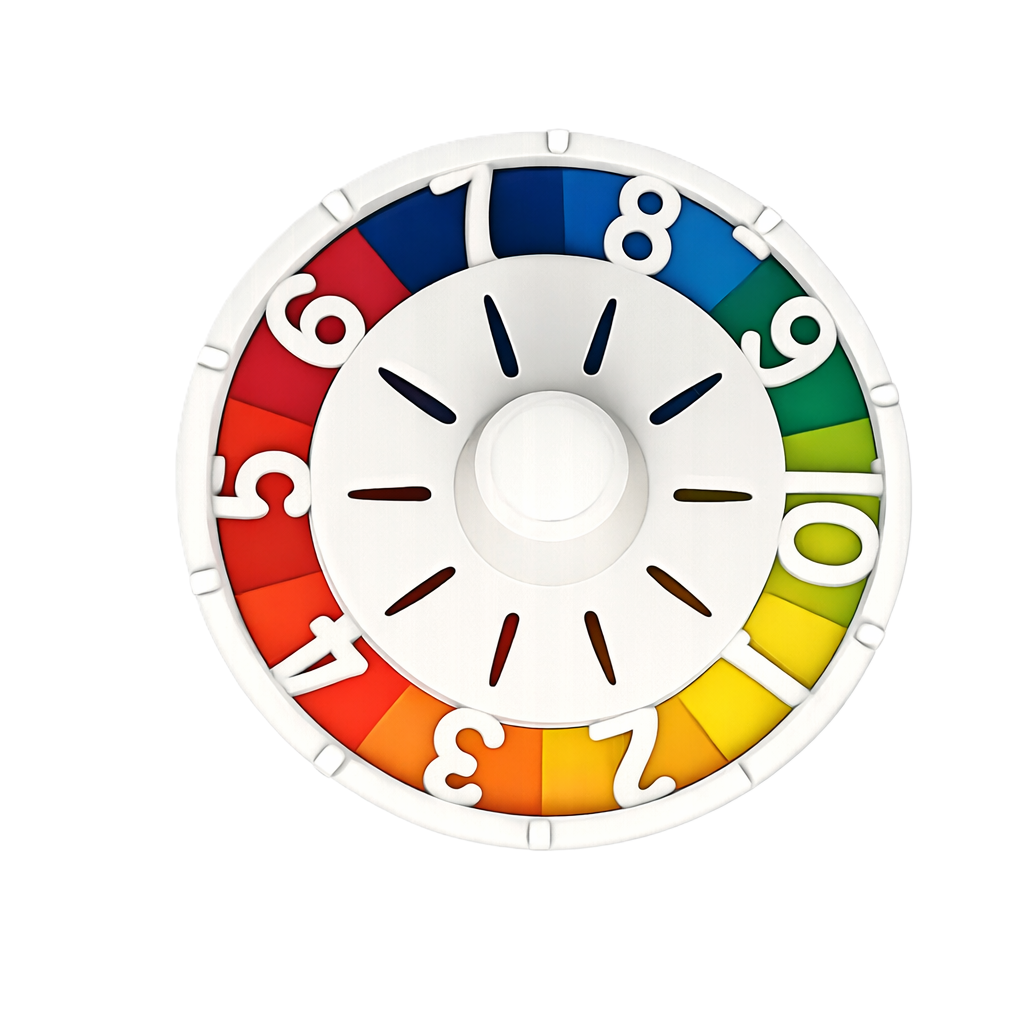
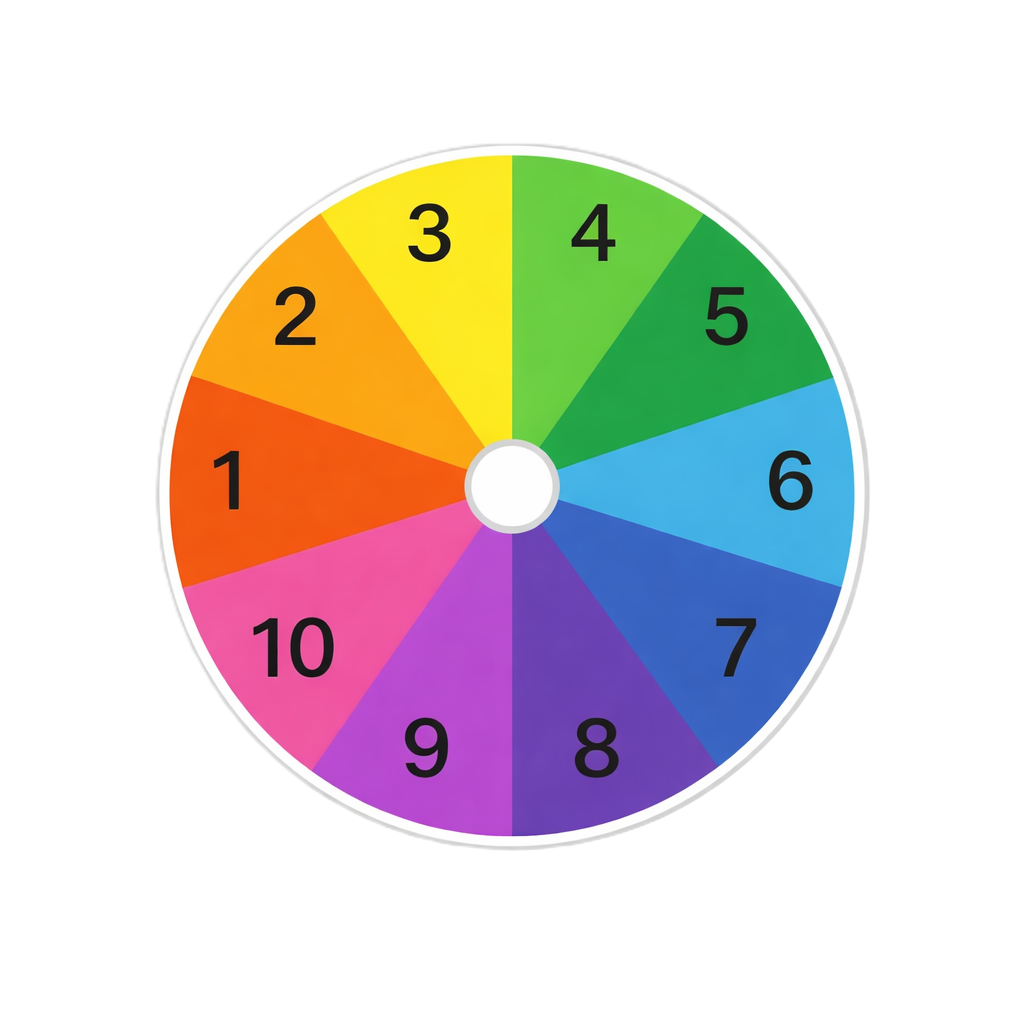
Commit all

diff --git a/src/main/java/org/gameoflife/Board.java b/src/main/java/org/gameoflife/Board.java
@@ -67,58 +67,26 @@ public class Board {
             label.setLayoutX(space.getX() - 7);
             label.setLayoutY(space.getY() + 5);
             boardPane.getChildren().add(label);
-
-//            spinnerContainer = new StackPane();
-//
-//            ImageView spinnerBase = new ImageView(new Image(getClass().getResource("/org/gameoflife/spinner.png").toExternalForm()));
-//            spinnerBase.setFitWidth(270);
-//            spinnerBase.setFitHeight(270);
-//            spinnerBase.setLayoutX(230);
-//            spinnerBase.setLayoutY(200);
-//
-//            spinnerContainer.setLayoutX(230);
-//            spinnerContainer.setLayoutY(200);
-//
-//
-//            spinnerContainer.setPrefSize(270, 270); // same as spinnerBase
-//            spinnerContainer.getChildren().add(spinnerBase);
-//
-//            boardPane.getChildren().add(spinnerBase);
-//
-//            ImageView spinnerArrow = new ImageView(new Image(getClass().getResource("/org/gameoflife/arrow.png").toExternalForm()));
-//            spinnerArrow.setFitWidth(80);
-//            spinnerArrow.setFitHeight(80);
-//            spinnerArrow.setLayoutX(220);
-//            spinnerArrow.setLayoutY(310);
-//
-//            boardPane.getChildren().add(spinnerArrow);
         }
 
-        // 🔥 CREATE SPINNER ONLY ONCE
-
-        spinnerContainer = new StackPane();
-
+        // Add spinner base (static)
         ImageView spinnerBase = new ImageView(
                 new Image(getClass().getResource("/org/gameoflife/spinner.png").toExternalForm())
         );
 
-        spinnerBase.setFitWidth(270);
-        spinnerBase.setFitHeight(270);
+        spinnerBase.setFitWidth(300);
+        spinnerBase.setFitHeight(300);
 
-// Container size
-        spinnerContainer.setPrefSize(270, 270);
+        spinnerBase.setLayoutX(220);
+        spinnerBase.setLayoutY(180);
 
-// Center spinner inside container
-        spinnerContainer.getChildren().add(spinnerBase);
+        // Add to board
+        boardPane.getChildren().add(spinnerBase);
 
-// Position container
-        spinnerContainer.setLayoutX(240);
-        spinnerContainer.setLayoutY(200);
+        // 🔥 CREATE SPINNER ONLY ONCE
+        spinnerContainer = new StackPane();
 
-// Add to board
-        boardPane.getChildren().add(spinnerContainer);
-
-// Arrow (static)
+        // Arrow (dynamic, rotates)
         ImageView spinnerArrow = new ImageView(
                 new Image(getClass().getResource("/org/gameoflife/arrow.png").toExternalForm())
         );
@@ -126,11 +94,13 @@ public class Board {
         spinnerArrow.setFitWidth(80);
         spinnerArrow.setFitHeight(80);
 
-// Position arrow
-        spinnerArrow.setLayoutX(220);
-        spinnerArrow.setLayoutY(310);
+        // Position container
+        spinnerContainer.setLayoutX(330);
+        spinnerContainer.setLayoutY(280);
 
-        boardPane.getChildren().add(spinnerArrow);
+        spinnerContainer.getChildren().add(spinnerArrow);
+
+        boardPane.getChildren().add(spinnerContainer);
     }
 
     public void positionTokens(List<PlayerToken> tokens, int spaceIndex) {

diff --git a/src/main/java/org/gameoflife/GameController.java b/src/main/java/org/gameoflife/GameController.java
@@ -176,11 +176,9 @@ public class GameController {
         double wheelAngle = (steps - 1) * anglePerStep;
 
         double arrowOffset = 180;
-        double baseOffset = 335; // tweak this
+        double baseOffset = 90; // tweak this
 
         double targetAngle = 360 * 4 + arrowOffset + wheelAngle - baseOffset;
-
-        System.out.println("Steps: " + steps + " | Angle: " + targetAngle);
 
         // 🎯 Animation
         RotateTransition rotate = new RotateTransition(Duration.seconds(2), spinnerContainer);
